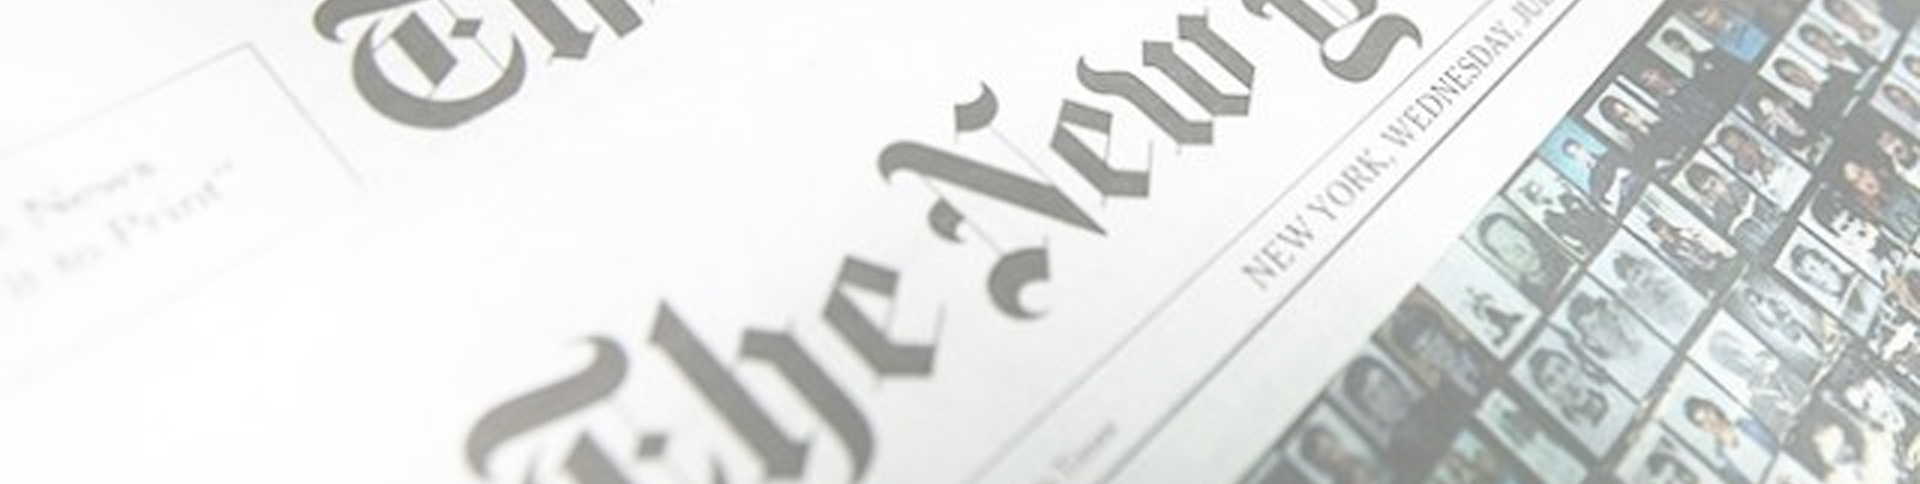
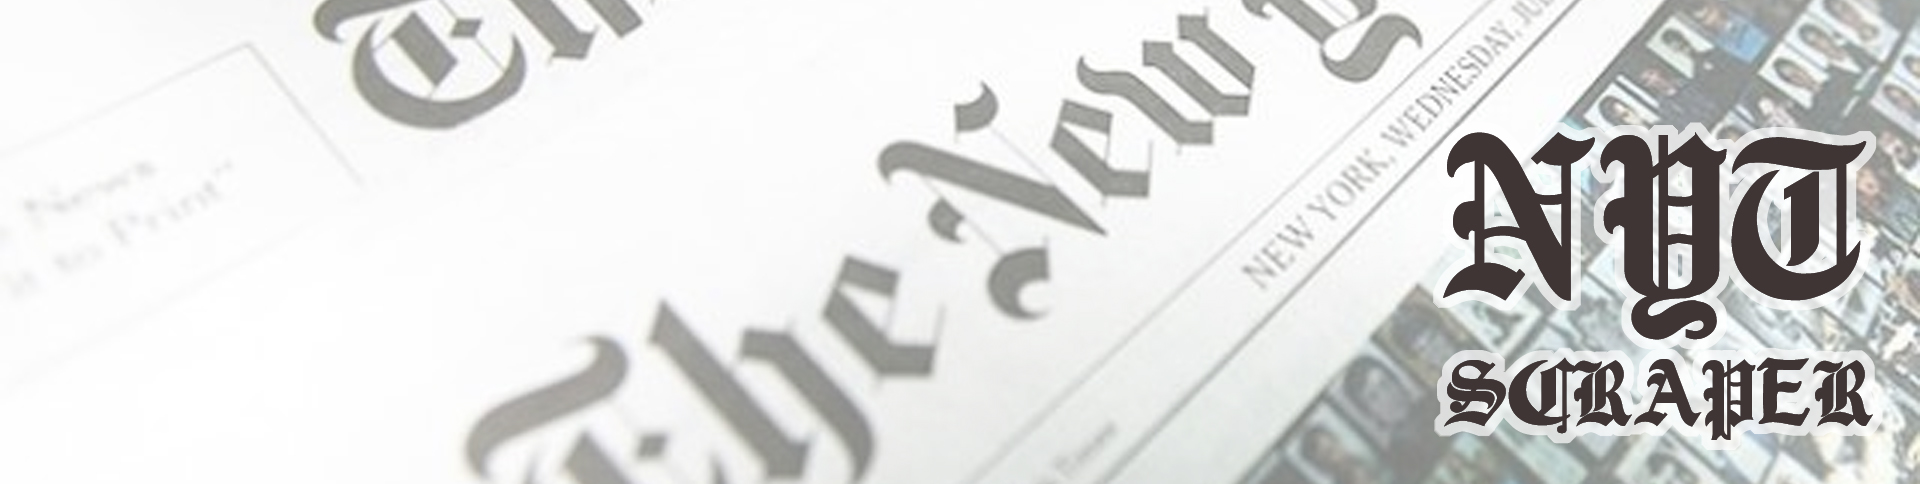
added styling

Changed region(s): [[0.75, 0.2479, 1.0, 0.9298]]

diff --git a/config/routes.js b/config/routes.js
@@ -59,35 +59,6 @@ module.exports = function(router) {
       });
   });
 
-  /*router.post("/articles/:id", function(req, res) {
-    // Create a new note and pass the req.body to the entry
-    var newNote = new Note(req.body);
-
-    // And save the new note the db
-    newNote.save(function(error, doc) {
-      // Log any errors
-      if (error) {
-        console.log(error);
-      }
-      // Otherwise
-      else {
-        // Use the article id to find and update it's note
-        Article.findOneAndUpdate({ "_id": req.params.id }, { "note": doc._id })
-        // Execute the above query
-        .exec(function(err, doc) {
-          // Log any errors
-          if (err) {
-            console.log(err);
-          }
-          else {
-            // Or send the document to the browser
-            res.send(doc);
-          }
-        });
-      }
-    });
-  });*/
-
   //retrieve the notes attached to saved articles to be displayed in the notes modal
   router.get('/notes/:id', function (req, res) {
       //Query to find the matching id to the passed in it
@@ -104,9 +75,6 @@ module.exports = function(router) {
 
   // Add a note to a saved article
   router.post('/notes/:id', function (req, res) {
-    console.log("$$$$$$$$$$$$$$$$$$$$$$$$$$");
-    console.log(req.params.id);
-    console.log("$$$$$$$$$$$$$$$$$$$$$$$$$$");
       //create a new note with req.body
       var newNote = new Note(req.body);
       //save newNote to the db

diff --git a/public/assets/js/app.js b/public/assets/js/app.js
@@ -68,8 +68,8 @@ $(document).ready(function() {
           $('#noteModalLabel').append(' ' + thisId);
           //add notes to body of modal, will loop through if multiple notes
           for(var i = 0; i<data.note.length; i++) {
-              var button = ' <a href=/deleteNote/' + data.note[i]._id + '><button type="button" class="btn btn-danger">Delete</button></a>';
-              $('#notesBody').append('<li>' + data.note[i].body + '  ' + button + '</li>');
+              var button = ' <a href=/deleteNote/' + data.note[i]._id + '><i class="pull-right fa fa-times fa-2x deletex" aria-hidden="true"></i></a>';
+              $('#notesBody').append('<div class="panel panel-default"><div class="noteText panel-body">' + data.note[i].body + '  ' + button + '</div></div>');
           }
       });
   });

diff --git a/public/assets/css/style.css b/public/assets/css/style.css
@@ -1,0 +1,45 @@
+body {
+	background-image: url(../img/nyt-newsprint.jpg);
+	background-position: center;
+}
+
+.btn-danger {
+  background-color: #722b2b;
+  border-color: #722b2b;
+}
+
+.btn-danger:hover {
+  background-color: #764747;
+  border-color: #764747;
+}
+
+.panel-default>.panel-heading {
+  background-color: #3f3535;
+  color: #fff;
+}
+
+.panel-default {
+  border-color: #3f3535;
+}
+
+.artLink {
+  color: #722b2b;
+}
+
+.saved-buttons {
+  margin-right: 1em;
+}
+
+.noteText {
+  color: #722b2b;
+}
+
+.deletex {
+  color: #722b2b;
+}
+
+.modal-body{
+	background-image: url(../img/nyt-modal-background.jpg);
+	background-size: cover;
+	background-position: center;
+}
